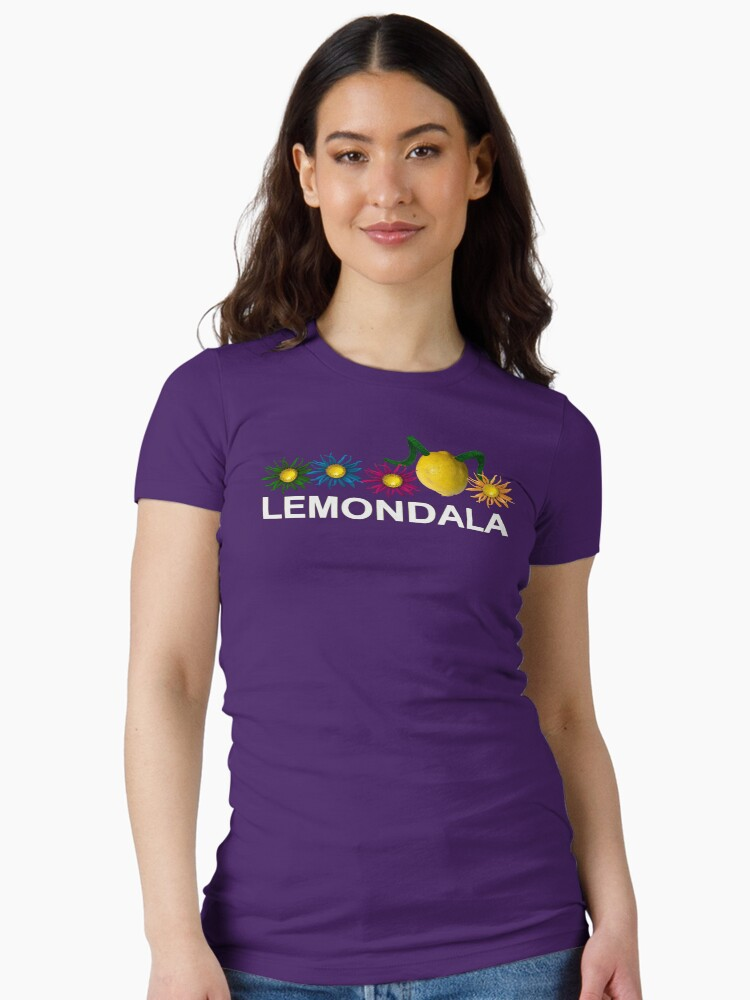
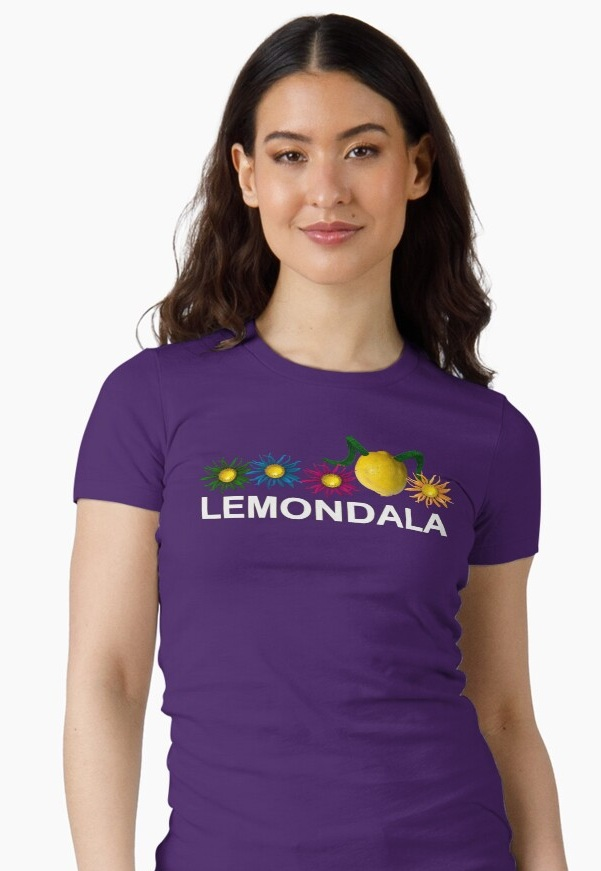
Updating Spread

diff --git a/Spread/index.html b/Spread/index.html
@@ -187,13 +187,49 @@
             </a>
 
             <a
+                class="product-piece piece-small"
+                href="https://www.redbubble.com/shop/ap/182344038?ref=studio-promote"
+                target="_blank"
+                rel="noopener noreferrer"
+            >
+                <img
+                    src="../Spread/images/13.Teal_Lemon_Sunflower.jpg"
+                    alt="Teal Lemon Sunflower sticker available on Redbubble"
+                >
+            </a>
+
+            <a
+                class="product-piece piece-small"
+                href="https://www.redbubble.com/shop/ap/182344757?ref=studio-promote"
+                target="_blank"
+                rel="noopener noreferrer"
+            >
+                <img
+                    src="../Spread/images/14.Fucshia_Lemon_Sunflower.jpg"
+                    alt="Fucshia Lemon Sunflower sticker available on Redbubble"
+                >
+            </a>
+
+            <a
+                class="product-piece piece-small"
+                href="https://www.redbubble.com/shop/ap/182357037?ref=studio-promote"
+                target="_blank"
+                rel="noopener noreferrer"
+            >
+                <img
+                    src="../Spread/images/15.Blue_Lemon_Sunflower.jpg"
+                    alt="Blue Lemon Sunflower sticker available on Redbubble"
+                >
+            </a>
+
+            <a
                 class="product-piece piece-shirt-tall"
                 href="https://www.redbubble.com/shop/ap/182993090"
                 target="_blank"
                 rel="noopener noreferrer"
             >
                 <img
-                    src="../Spread/images/13.Lemondala_lemon_tree.jpg"
+                    src="../Spread/images/16.Lemondala_lemon_tree.jpg"
                     alt="Lemondala Lemon Tree shirt available on Redbubble"
                 >
             </a>
